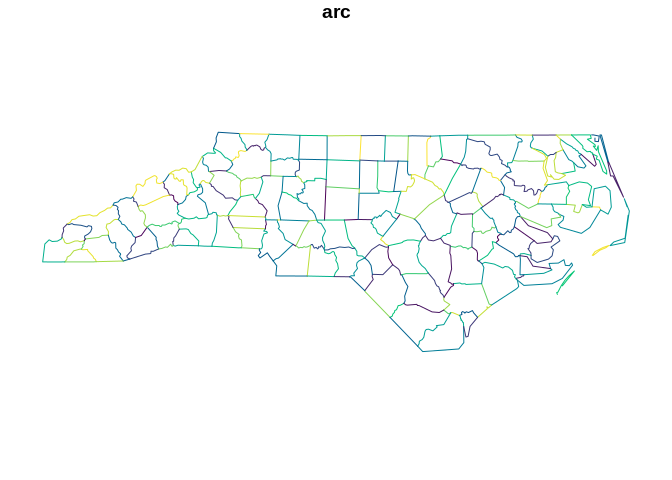
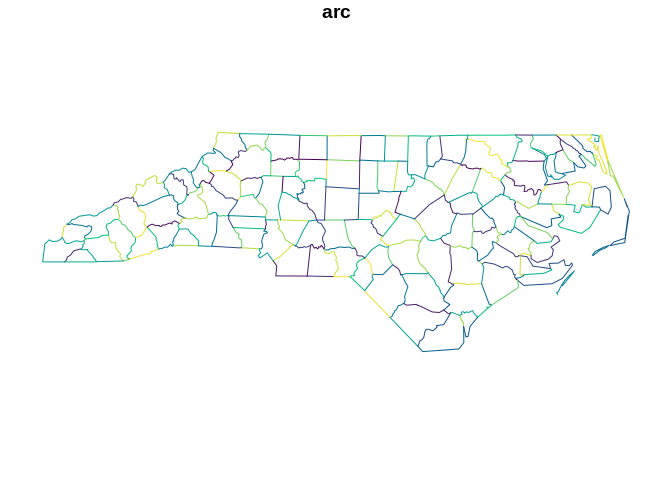
better readme example

diff --git a/README.md b/README.md
@@ -61,25 +61,30 @@ plot(dplyr::sample_n(arcs[1], 20), col = "hotpink2", lwd = 6, add = TRUE)
 Works fine with more intensive data.
 
 ``` r
-arx <- sf_arcnode(silicate::inlandwaters)
+xx <- ozmaps::abs_ced
+arx <- sf_arcnode(xx)
 
 idx <- which(unlist(lapply(arx$feature_ids, function(.x) length(.x$row) > 1)))
-s <- idx[7]
-plot(silicate::inlandwaters[arx$feature_ids[[s]]$row, "geom"], reset = FALSE, col = c("grey", "grey10"))
+s <- idx[1]
+plot(xx[arx$feature_ids[[s]]$row, "geometry"], reset = FALSE, col = c("grey", "grey10"))
 plot(arx[s, 1], add = TRUE, col = "hotpink2", lwd = 4)
 ```
 
-<img src="man/figures/README-lakes-1.png" width="100%" />
+<img src="man/figures/README-ced-1.png" width="100%" />
 
 ``` r
 
-
-s <- idx[3]
-plot(silicate::inlandwaters[arx$feature_ids[[s]]$row, "geom"], reset = FALSE, col = c("grey", "grey10"))
-plot(arx[s, 1], add = TRUE, col = "hotpink2", lwd = 4)
+for (j in 1:6) {
+par(mfrow = c(5, 5), mar = rep(0, 4))
+for (i in 1:25) {
+s <- sample(idx, 1)
+plot(xx[arx$feature_ids[[s]]$row, "geometry"], reset = FALSE, col = grey(c(0.8, 0.5)))
+plot(arx[s, 1], add = TRUE, col = "hotpink1", lwd = 4)
+}
+}
 ```
 
-<img src="man/figures/README-lakes-2.png" width="100%" />
+<img src="man/figures/README-ced-2.png" width="100%" /><img src="man/figures/README-ced-3.png" width="100%" /><img src="man/figures/README-ced-4.png" width="100%" /><img src="man/figures/README-ced-5.png" width="100%" /><img src="man/figures/README-ced-6.png" width="100%" /><img src="man/figures/README-ced-7.png" width="100%" />
 
 -----
 
